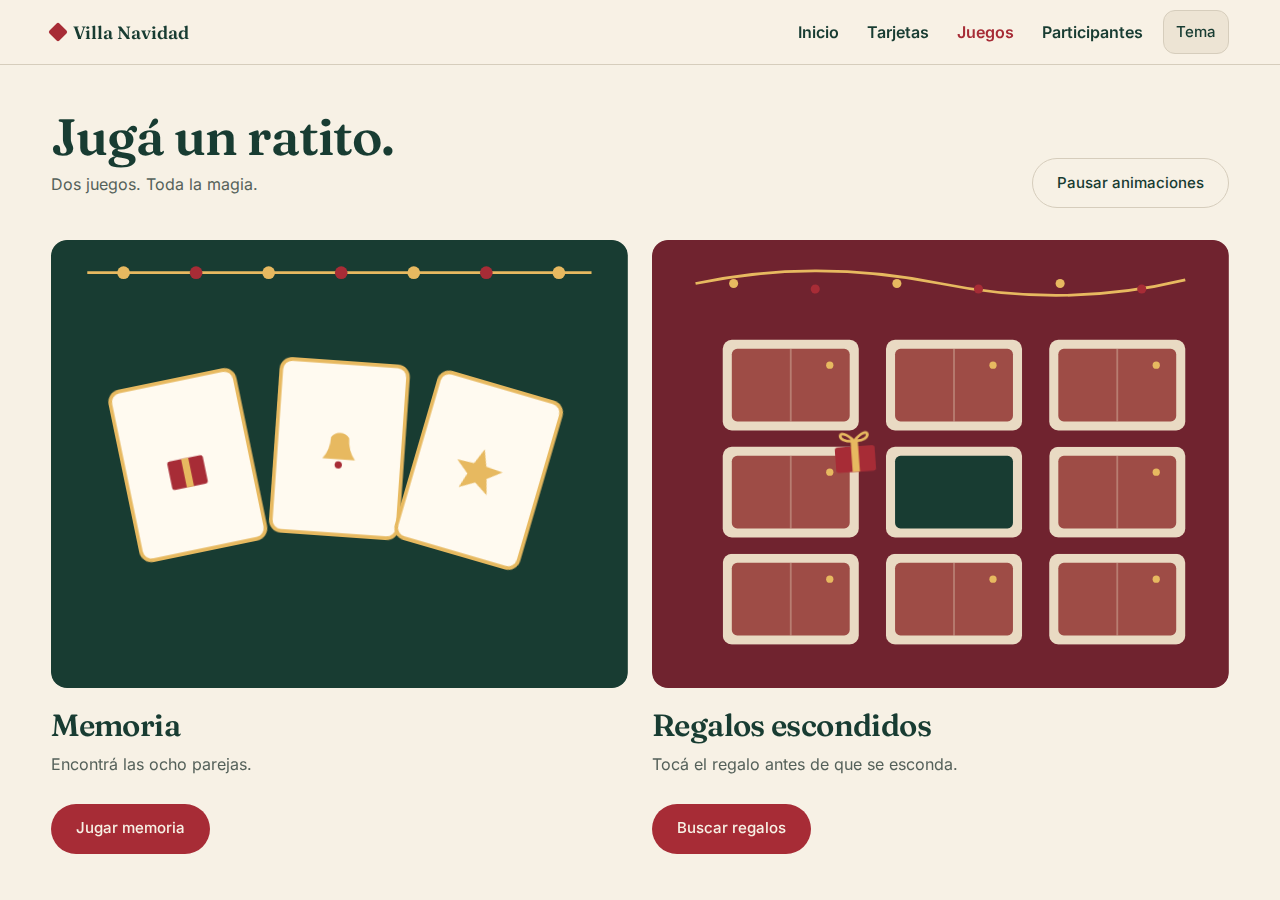
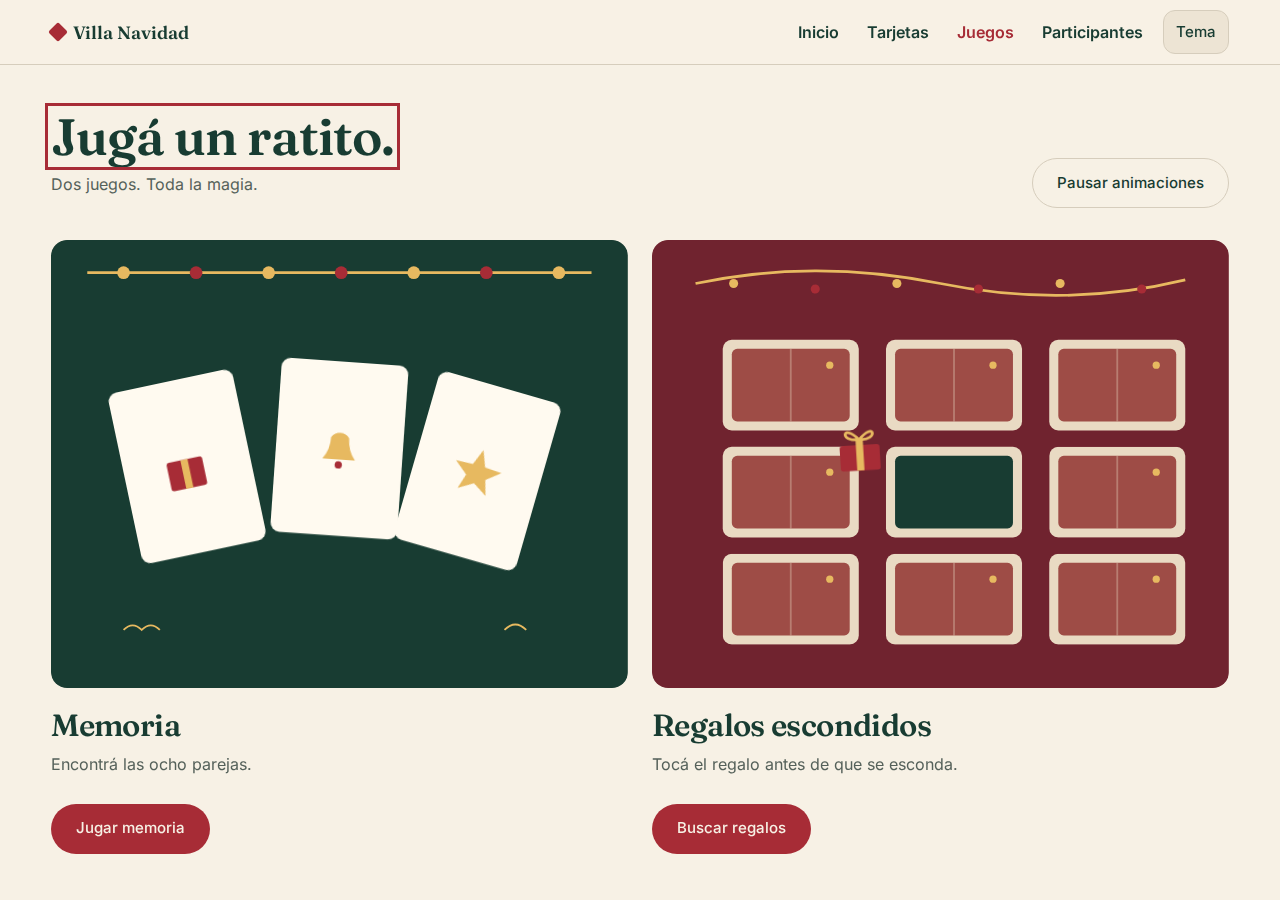
fix(parity): anillo FocusHeading y arte Memoria del catálogo
Aplica tabindex/focus del H1 como React FocusHeading en las 3 páginas
React, y alinea el SVG de Memoria (rx/y, sin stroke, arabescos).

diff --git a/juegos.html b/juegos.html
@@ -48,7 +48,7 @@
       <section id="view-catalog" aria-labelledby="heading-juegos">
         <div class="game-header">
           <div>
-            <h1 id="heading-juegos">Jugá un ratito.</h1>
+            <h1 id="heading-juegos" tabindex="-1">Jugá un ratito.</h1>
             <p class="lead">Dos juegos. Toda la magia.</p>
           </div>
           <button
@@ -78,24 +78,26 @@
                 <circle cx="560" cy="36" r="7" fill="#E7B960"></circle>
                 <g transform="translate(150 250) rotate(-12)">
                   <g class="anim-card-a">
-                    <rect x="-70" y="-95" width="140" height="190" rx="12" fill="#FFFAF0" stroke="#E7B960" stroke-width="4"></rect>
+                    <rect x="-70" y="-96" width="140" height="192" rx="10" fill="#FFFAF0"></rect>
                     <rect x="-22" y="-8" width="40" height="32" rx="3" fill="#A72C36"></rect>
                     <rect x="-6" y="-8" width="8" height="32" fill="#E7B960"></rect>
                   </g>
                 </g>
                 <g transform="translate(318 230) rotate(4)">
                   <g class="anim-card-b">
-                    <rect x="-70" y="-95" width="140" height="190" rx="12" fill="#FFFAF0" stroke="#E7B960" stroke-width="4"></rect>
+                    <rect x="-70" y="-96" width="140" height="192" rx="10" fill="#FFFAF0"></rect>
                     <path d="M-18 12 Q-10 2 -10 -12 A12 12 0 0 1 10 -12 Q10 2 18 12 Z" fill="#E7B960"></path>
                     <circle cy="18" r="4" fill="#A72C36"></circle>
                   </g>
                 </g>
                 <g transform="translate(470 255) rotate(16)">
                   <g class="anim-card-a">
-                    <rect x="-70" y="-95" width="140" height="190" rx="12" fill="#FFFAF0" stroke="#E7B960" stroke-width="4"></rect>
+                    <rect x="-70" y="-96" width="140" height="192" rx="10" fill="#FFFAF0"></rect>
                     <path d="M0 -24 L7 -6 L26 -5 L11 7 L16 24 L0 14 L-16 24 L-11 7 L-26 -5 L-7 -6 Z" fill="#E7B960"></path>
                   </g>
                 </g>
+                <path d="M80 430 Q90 420 100 430 Q110 420 120 430" fill="none" stroke="#E7B960" stroke-width="2"></path>
+                <path d="M500 430 Q512 418 524 430" fill="none" stroke="#E7B960" stroke-width="2"></path>
               </svg>
             </div>
             <h2 class="mt-5">Memoria</h2>

diff --git a/js/main.js b/js/main.js
@@ -5,7 +5,31 @@
 
   initDarkMode();
   initMenu();
+  initFocusHeading();
   initCountdown();
+
+  /** Paridad React FocusHeading: enfoca el H1 de la vista visible sin scroll. */
+  function initFocusHeading() {
+    var headings = document.querySelectorAll("main h1[tabindex='-1']");
+    var target = null;
+    for (var i = 0; i < headings.length; i++) {
+      var h = headings[i];
+      var section = h.closest("section");
+      if (section && section.hidden) continue;
+      target = h;
+      break;
+    }
+    if (!target) return;
+    try {
+      target.focus({ preventScroll: true, focusVisible: true });
+    } catch (err) {
+      try {
+        target.focus({ preventScroll: true });
+      } catch (err2) {
+        target.focus();
+      }
+    }
+  }
 
   /** Aplica y guarda el tema claro/oscuro en localStorage. */
   function initDarkMode() {

diff --git a/tarjetas.html b/tarjetas.html
@@ -45,7 +45,7 @@
 
     <main class="page-shell py-8 sm:py-10">
       <section aria-labelledby="heading-tarjetas">
-        <h1 id="heading-tarjetas">Un poquito de vos, en una tarjeta.</h1>
+        <h1 id="heading-tarjetas" tabindex="-1">Un poquito de vos, en una tarjeta.</h1>
         <p class="lead">Elegí un diseño, escribí algo lindo y llevátelo en PNG.</p>
 
         <div class="editor-grid mt-8">
